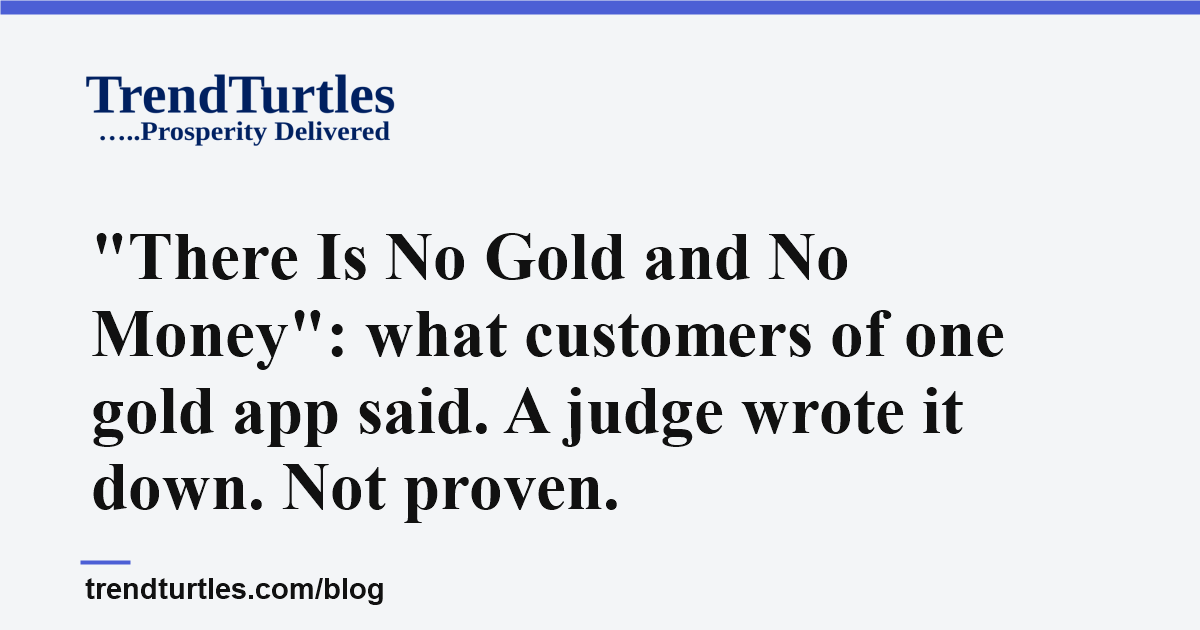
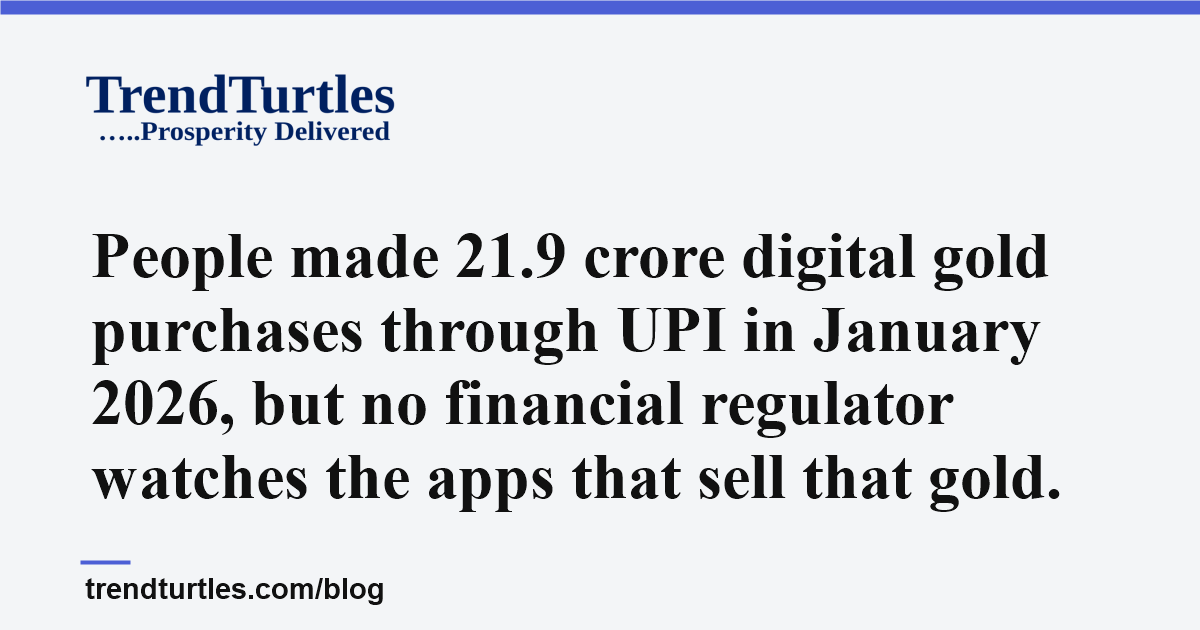
Rewrite digital gold post as series C episode (21.9 crore UPI purchases, no regulator); Paytm restart, government draft rules; links, card, share image

Changed region(s): [[0.0617, 0.4825, 0.8942, 0.8444], [0.0617, 0.3619, 0.8942, 0.4825]]

diff --git a/blog/digital-gold-safe-india.html b/blog/digital-gold-safe-india.html
@@ -3,22 +3,22 @@
 <head>
     <meta charset="UTF-8">
     <meta name="viewport" content="width=device-width, initial-scale=1.0">
-    <title>"No Gold and No Money": Is Digital Gold Safe in India?</title>
-    <meta name="description" content="Customers of one gold app said &quot;there is no gold and no money&quot;, a High Court order shows. It is not proven. Is digital gold safe in India? 7 checks to do.">
+    <title>Is Digital Gold Safe in India? No Regulator, Real Cases</title>
+    <meta name="description" content="Is digital gold safe? People made 21.9 crore UPI purchases in January 2026, but no regulator watches the apps. Real cases, costs and 7 steps before you buy.">
     <meta name="author" content="Mayank Gola">
     <meta name="robots" content="index, follow, max-snippet:-1, max-image-preview:large, max-video-preview:-1">
-    <meta property="og:title" content="&quot;No Gold and No Money&quot;: Is Digital Gold Safe in India?">
-    <meta property="og:description" content="Customers of one gold app said &quot;there is no gold and no money&quot;, a High Court order shows. It is not proven. Is digital gold safe in India? 7 checks to do.">
+    <meta property="og:title" content="Is Digital Gold Safe in India? No Regulator, Real Cases">
+    <meta property="og:description" content="Is digital gold safe? People made 21.9 crore UPI purchases in January 2026, but no regulator watches the apps. Real cases, costs and 7 steps before you buy.">
     <meta property="og:url" content="https://trendturtles.com/blog/digital-gold-safe-india.html">
     <meta property="og:type" content="article">
     <meta property="og:site_name" content="TrendTurtles">
-    <meta property="og:image" content="https://trendturtles.com/assets/images/digital-gold-safe-india-share.png?v=2">
+    <meta property="og:image" content="https://trendturtles.com/assets/images/digital-gold-safe-india-share.png?v=4">
     <meta property="og:image:width" content="1200">
     <meta property="og:image:height" content="630">
     <meta name="twitter:card" content="summary_large_image">
-    <meta name="twitter:title" content="&quot;No Gold and No Money&quot;: Is Digital Gold Safe in India?">
-    <meta name="twitter:description" content="Customers of one gold app said &quot;there is no gold and no money&quot;, a High Court order shows. It is not proven. Is digital gold safe in India? 7 checks to do.">
-    <meta name="twitter:image" content="https://trendturtles.com/assets/images/digital-gold-safe-india-share.png?v=2">
+    <meta name="twitter:title" content="Is Digital Gold Safe in India? No Regulator, Real Cases">
+    <meta name="twitter:description" content="Is digital gold safe? People made 21.9 crore UPI purchases in January 2026, but no regulator watches the apps. Real cases, costs and 7 steps before you buy.">
+    <meta name="twitter:image" content="https://trendturtles.com/assets/images/digital-gold-safe-india-share.png?v=4">
     <link rel="canonical" href="https://trendturtles.com/blog/digital-gold-safe-india.html">
     <link rel="icon" href="/favicon.ico" sizes="any">
     <link rel="icon" href="/favicon-512.png" type="image/png">
@@ -29,13 +29,13 @@
     {
         "@context": "https://schema.org",
         "@type": "BlogPosting",
-        "headline": "\"There Is No Gold and No Money\"",
-        "description": "Customers of one gold app said \"there is no gold and no money\", a High Court order shows. It is not proven. Is digital gold safe in India? 7 checks to do.",
+        "headline": "Is Digital Gold Safe in India? No Regulator, Real Cases",
+        "description": "Is digital gold safe? People made 21.9 crore UPI purchases in January 2026, but no regulator watches the apps. Real cases, costs and 7 steps before you buy.",
         "mainEntityOfPage": "https://trendturtles.com/blog/digital-gold-safe-india.html",
         "datePublished": "2026-10-11",
-        "dateModified": "2026-10-25",
+        "dateModified": "2026-10-27",
         "inLanguage": "en-IN",
-        "image": "https://trendturtles.com/assets/images/digital-gold-safe-india-share.png?v=2",
+        "image": "https://trendturtles.com/assets/images/digital-gold-safe-india-share.png?v=4",
         "author": {
             "@type": "Person",
             "name": "Mayank Gola",
@@ -90,74 +90,62 @@
         <a href="index.html">Blog</a> &rsaquo;
         <span class="current">Is Digital Gold Safe in India?</span>
     </p>
-    <h1>"There Is No Gold and No Money"</h1>
-    <p class="dek">Customers of one gold app were saying this to each other. A judge wrote it in his order in 2026. It is not proven.</p>
-    <p class="dek-source">Karnataka High Court order, March 2026, in the Jar Gold case. Source: <a href="https://www.livelaw.in/high-court/karnataka-high-court/karnataka-high-court-digital-gold-platform-jar-gold-retail-private-limited-526393" target="_blank" rel="noopener noreferrer">LiveLaw</a>, a legal news site.</p>
+    <h1>People made 21.9 crore digital gold purchases through UPI in January 2026, but no financial regulator watches the apps that sell that gold.</h1>
+    <p class="dek">SEBI, which watches the share market, says digital gold is not its job. The RBI watches only the payment, not the gold. The government plans rules by 2027.</p>
+    <p class="dek-source">NPCI data for January 2026. Source: <a href="https://www.angelone.in/news/commodities/digital-gold-sales-reach-record-3-926-crore-in-january-2026" target="_blank" rel="noopener noreferrer">Angel One</a>, a stockbroker's news page. SEBI caution to the public, 8 November 2025. Source: <a href="https://www.sebi.gov.in/media-and-notifications/press-releases/nov-2025/caution-to-public-regarding-dealing-in-digital-gold-_97676.html" target="_blank" rel="noopener noreferrer">SEBI</a>.</p>
 </section>
 
 <section class="section">
 
     <p class="byline">
-        By <strong>Mayank Gola</strong>, TrendTurtles &nbsp;·&nbsp; 10 min read &nbsp;·&nbsp; Published: October 2026
+        By <strong>Mayank Gola</strong>, TrendTurtles &nbsp;·&nbsp; 10 min read &nbsp;·&nbsp; Published: October 2026 &nbsp;·&nbsp; Updated: 27 October 2026
     </p>
 
+    <p>This article is part of our series on gold rules that are unclear or changed midway. See also <a href="sovereign-gold-bond-tax-india.html">the gold bond tax change</a> and <a href="gold-at-home-limit-india.html">the rule on gold at home</a>.</p>
 
-    <p>Jar is a phone app. You pay a small amount. The app says it buys gold for you and keeps it safe. This is called digital gold.</p>
-    <p>In 2026, the police in Bengaluru opened a case against Jar. Jar asked the Karnataka High Court to stop the case. In March 2026 the judge said no. He said the police must look into it, because <a href="https://www.livelaw.in/high-court/karnataka-high-court/karnataka-high-court-digital-gold-platform-jar-gold-retail-private-limited-526393" target="_blank" rel="noopener noreferrer">"the investors have already made hue and cry through communications between them that there is no gold and no money"</a>.</p>
-    <p>In simple words: Jar's customers were telling each other that the gold was not there, and the money was not there.</p>
-    <p>Is it true? Nobody knows yet. It is a claim. It is not proven. The judge added one thing. His words were only about Jar's request to stop the case. They cannot be used against Jar at its trial. No court has found Jar guilty. The police are still looking into it. This is how things stood in August 2026.</p>
-    <p>Jar says the claim is wrong. It told the court it buys real gold every time. The gold is kept by a company called Brink's India, in a vault. A vault is a strong locked room.</p>
-    <p>In April 2026 a smaller court looked at the case. It noted that <a href="https://inc42.com/buzz/karnataka-hc-quashes-sessions-court-orders-to-defreeze-jars-accounts/" target="_blank" rel="noopener noreferrer">the police had confirmed about 1,521 kg of gold kept with Brink's India</a>. It also noted that no customer had complained of not getting gold or money. The High Court, for its part, had noted that members of the public had made several complaints against the company.</p>
-    <p>So why should you care? Because nobody is watching the app. This is part of our series on gold rules that are unclear or changed midway. See also <a href="sovereign-gold-bond-tax-india.html">the gold bond tax change</a> and <a href="gold-at-home-limit-india.html">the rule on gold at home</a>.</p>
+    <p>Digital gold is gold you buy in a phone app. You pay a small amount, <a href="https://www.angelone.in/news/commodities/digital-gold-sales-reach-record-3-926-crore-in-january-2026" target="_blank" rel="noopener noreferrer">from as little as ₹1</a>. The app says it buys real gold for you and keeps it in a vault. You never see the gold. You trust the app.</p>
+    <p>Many people now save this way. In January 2026, people made <a href="https://www.angelone.in/news/commodities/digital-gold-sales-reach-record-3-926-crore-in-january-2026" target="_blank" rel="noopener noreferrer">21.9 crore digital gold purchases through UPI, worth ₹3,926 crore</a>, according to NPCI data. NPCI runs UPI. In September 2026, digital gold purchases were ₹2,590 crore, <a href="https://www.businesstoday.in/personal-finance/story/digital-gold-purchases-jump-83-is-convenience-changing-how-indians-buy-gold-563517-2026-10-25" target="_blank" rel="noopener noreferrer">83% more than a year earlier</a>, the World Gold Council said. The two figures are measured in different ways, so they cannot be compared with each other.</p>
 
-    <h2>Is Digital Gold Safe in India? SEBI Does Not Watch It</h2>
-    <p>You can start digital gold with <a href="https://www.moneylife.in/article/sebi-warns-against-investing-in-unregulated-digital-gold-and-egold-products/78789.html" target="_blank" rel="noopener noreferrer">as little as ₹10 or ₹100</a>. You never see the gold. You trust the app.</p>
-    <p>SEBI is the government body that watches the share market. On 8 November 2025 it gave the public <a href="https://www.sebi.gov.in/media-and-notifications/press-releases/nov-2025/caution-to-public-regarding-dealing-in-digital-gold-_97676.html" target="_blank" rel="noopener noreferrer">a warning about digital gold</a>. It said these products:</p>
-    <p class="pull-quote">"operate entirely outside the purview of SEBI."</p>
-    <p>In simple words: digital gold is not SEBI's job. If something goes wrong, SEBI's protection does not cover you.</p>
-    <p>The RBI is the body that watches banks. <a href="https://www.livelaw.in/high-court/karnataka-high-court/karnataka-high-court-digital-gold-platform-jar-gold-retail-private-limited-526393" target="_blank" rel="noopener noreferrer">The same court report</a> says an RBI team inspected Jar's address in Bengaluru. The RBI said Jar's gold account does not come under its rules.</p>
-    <p>The magazine Moneylife <a href="https://www.moneylife.in/article/sebi-warns-against-investing-in-unregulated-digital-gold-and-egold-products/78789.html" target="_blank" rel="noopener noreferrer">put it plainly</a>. Digital gold is not under SEBI, not under the RBI, and not under any other financial regulator. So your safety depends only on the company behind the app.</p>
-    <p>Nithin Kamath heads Zerodha, a firm through which people buy shares. <a href="https://www.businesstoday.in/personal-finance/investment/story/a-subpar-way-to-get-exposure-to-gold-nithin-kamath-warns-digital-buyers-face-6-loss-no-safety-501997-2025-11-13" target="_blank" rel="noopener noreferrer">He wrote</a>: "Most people don't realize that nobody regulates digital gold." If something goes wrong, he said, "there's not much you can do." Keep one thing in mind. There is a <a href="https://www.basunivesh.com/gold-and-silver-etf-nav-trap-why-you-just-lost-24-in-1-day/" target="_blank" rel="noopener noreferrer">Zerodha Gold ETF</a>, which is a gold fund. So he has a reason to like such funds more.</p>
-    <p>The police can still act. <a href="https://inc42.com/buzz/karnataka-hc-quashes-sessions-court-orders-to-defreeze-jars-accounts/" target="_blank" rel="noopener noreferrer">The High Court said</a> criminal law applies to digital gold too. But the police come after something goes wrong. Nobody checks before.</p>
+    <h2 id="what-is-written">Is Digital Gold Safe in India? What the Rules Say</h2>
+    <p>SEBI is the government body that watches the share market. On 8 November 2025 it gave the public <a href="https://www.sebi.gov.in/media-and-notifications/press-releases/nov-2025/caution-to-public-regarding-dealing-in-digital-gold-_97676.html" target="_blank" rel="noopener noreferrer">a warning about digital gold</a>. It said these products "operate entirely outside the purview of SEBI". In simple words: digital gold is not SEBI's job, and SEBI's protection does not cover you.</p>
+    <p>The RBI is the body that watches banks. In August 2026, the news agency KNN reported that the RBI <a href="https://knnindia.co.in/news/newsdetails/sectors/government-plans-digital-gold-rules-to-boost-transparency-investor-protection" target="_blank" rel="noopener noreferrer">watches only the payment system</a> you use to buy. It does not watch the gold itself. The magazine Moneylife <a href="https://www.moneylife.in/article/sebi-warns-against-investing-in-unregulated-digital-gold-and-egold-products/78789.html" target="_blank" rel="noopener noreferrer">put it plainly</a>: digital gold is not under SEBI, not under the RBI, and not under any other financial regulator.</p>
 
-    <h2>What Happened to Digital Gold Buyers</h2>
-    <p>Here are four real cases. We did not make up any of them. Each has a link, so you can read it yourself.</p>
+    <h2 id="what-is-not">What Nobody Checks</h2>
+    <p>Because no regulator watches digital gold, no government body checks that the gold is really in the vault. Regulators <a href="https://www.business-standard.com/markets/commodities/digital-gold-fintechs-face-scrutiny-amid-sebi-warning-125111101962_1.html" target="_blank" rel="noopener noreferrer">could not inspect the platforms' vaults</a>, Business Standard reported. Your safety depends only on the company behind the app.</p>
+    <p>Nithin Kamath heads Zerodha, a firm through which people buy shares and gold ETFs. A gold ETF is a gold fund sold on the share market. <a href="https://www.businesstoday.in/personal-finance/investment/story/a-subpar-way-to-get-exposure-to-gold-nithin-kamath-warns-digital-buyers-face-6-loss-no-safety-501997-2025-11-13" target="_blank" rel="noopener noreferrer">He wrote</a>: "Most people don't realize that nobody regulates digital gold." If something goes wrong, he said, "there's not much you can do." Keep one thing in mind: Zerodha also runs <a href="https://www.basunivesh.com/gold-and-silver-etf-nav-trap-why-you-just-lost-24-in-1-day/" target="_blank" rel="noopener noreferrer">a gold ETF of its own</a>.</p>
+    <p>The police can still act. <a href="https://inc42.com/buzz/karnataka-hc-quashes-sessions-court-orders-to-defreeze-jars-accounts/" target="_blank" rel="noopener noreferrer">The Karnataka High Court said</a> criminal law applies to digital gold too. But the police come after something goes wrong. Nobody checks before.</p>
 
-    <h3>1. Jar: the app's bank accounts were frozen (2026)</h3>
-    <p>The police froze Jar's bank accounts while they looked into the case. Frozen means no money can go out. In July 2026 they froze more accounts.</p>
-    <p><a href="https://www.livelaw.in/high-court/karnataka-high-court/karnataka-high-court-hears-gold-plea-total-account-freeze-customers-gold-redemption-542668" target="_blank" rel="noopener noreferrer">Jar's lawyer told the High Court this.</a> With the accounts frozen, Jar could not pay customers who asked for their money. It could not take new orders either. This is what the lawyer said. We did not find a report of any customer who was not paid.</p>
-    <p>In August 2026 the High Court ruled on this. <a href="https://www.livelaw.in/high-court/karnataka-high-court/karnataka-high-court-settles-jar-gold-legal-battle-police-freeze-bank-account-545095" target="_blank" rel="noopener noreferrer">The police may freeze bank accounts during a case.</a></p>
+    <h2 id="what-may-change">What May Change</h2>
+    <p>After SEBI's warning, many buyers took their money out. Withdrawals from digital gold apps <a href="https://www.business-standard.com/markets/commodities/digital-gold-fintechs-face-scrutiny-amid-sebi-warning-125111101962_1.html" target="_blank" rel="noopener noreferrer">nearly tripled</a>, Business Standard reported in November 2025, citing industry sources.</p>
+    <p>The government is now preparing rules. In August 2026, KNN reported that it plans <a href="https://knnindia.co.in/news/newsdetails/sectors/government-plans-digital-gold-rules-to-boost-transparency-investor-protection" target="_blank" rel="noopener noreferrer">a formal framework for digital gold by next year, which means 2027</a>. The plan is that every unit sold must be backed by real gold in insured vaults, checked by regular independent audits. This is a plan, not a law. Until it becomes law, nobody watches.</p>
 
-    <h3>2. Plus Gold: the company stopped work (2025)</h3>
-    <p>Plus Gold is a digital gold app. It was shown on the TV show Shark Tank India. <a href="https://inc42.com/buzz/exclusive-shark-tank-fame-plus-gold-shuts-shop/" target="_blank" rel="noopener noreferrer">The news site Inc42 reported on 31 July 2025</a> that the company had stopped work. It could not raise money to keep going. The app had over 1 lakh downloads on Google Play.</p>
-    <p>Inc42 said some users complained. They said they could not take their money out. One user wrote on Reddit that they tried more than once. It did not work.</p>
-    <p>The company's founder said no money was stuck. He said users could still take money out or sell. He said another gold company had taken over the app.</p>
+    <h2 id="cases">What Happened to Digital Gold Buyers</h2>
+    <p>Here are three real cases, each with a link.</p>
 
-    <h3>3. Paytm: no gold delivery for months (2025 to 2026)</h3>
-    <p>Some buyers want the real gold one day, as a coin or a bar. <a href="https://www.storyboard18.com/brand-marketing/paytm-to-restart-physical-gold-deliveries-for-digital-investors-in-april-ws-l-92065.htm" target="_blank" rel="noopener noreferrer">Paytm paused gold delivery in August 2025</a>. Several Paytm gold buyers told the news site Moneycontrol this. Paytm gave no reason in public. The app only said "coming soon".</p>
-    <p>In March 2026 Paytm said it was rebuilding the way it sends gold to buyers. It planned to start again in mid-April. It said buyers could still sell their digital gold for cash in this time.</p>
+    <h3 id="jar-frozen">1. Jar: the app's bank accounts were frozen (2026)</h3>
+    <p>Jar is a digital gold app. In 2026, the police in Bengaluru opened a case against it. In March 2026, the Karnataka High Court refused to stop the police case. The judge noted that investors had been saying to each other <a href="https://www.livelaw.in/high-court/karnataka-high-court/karnataka-high-court-digital-gold-platform-jar-gold-retail-private-limited-526393" target="_blank" rel="noopener noreferrer">"there is no gold and no money"</a>. In simple words: some investors feared the app had neither the gold nor their money. This is a claim, not proven. No court has found Jar guilty, and Jar says the claim is wrong. The High Court also noted several complaints from the public online.</p>
+    <p>Jar told the court that it buys real gold every time, and that the gold is kept in a vault by a company called Brink's India. In April 2026, a lower court in Bengaluru noted that the police had confirmed <a href="https://inc42.com/buzz/karnataka-hc-quashes-sessions-court-orders-to-defreeze-jars-accounts/" target="_blank" rel="noopener noreferrer">about 1,521 kg of gold kept with Brink's India</a>. But it also noted that, in the case itself, no customer had complained of not getting gold or money.</p>
+    <p>The police froze Jar's bank accounts while they looked into the case. Frozen means no money can go out. Jar's lawyer told the High Court that, with the accounts frozen, <a href="https://www.livelaw.in/high-court/karnataka-high-court/karnataka-high-court-hears-gold-plea-total-account-freeze-customers-gold-redemption-542668" target="_blank" rel="noopener noreferrer">Jar could not pay customers</a> who asked for their money. In August 2026 the High Court ruled that <a href="https://www.livelaw.in/high-court/karnataka-high-court/karnataka-high-court-settles-jar-gold-legal-battle-police-freeze-bank-account-545095" target="_blank" rel="noopener noreferrer">the police may freeze bank accounts</a> during a case. So the freeze can stay while the case goes on, except for some essential payments.</p>
 
-    <h3>4. Mangaluru: a man says a fake app took ₹10.55 lakh (2025 to 2026)</h3>
-    <p>A 57-year-old man in Mangaluru told the police this. In November 2025 he got a friendly message on Instagram. The sender told him to put money in the "digital gold market" through an app called Kanak Daam Exchange. He sent money three times.</p>
-    <p>The app showed that his money had grown to ₹60 lakh. He tried to take it out. He was told to pay 30% as "tax" first. Officials at Canara Bank told him it was a fraud. Then the app showed zero. <a href="https://www.deccanherald.com/india/karnataka/mangaluru/mangaluru-man-duped-of-rs-1055-lakh-in-digital-gold-investment-scam-3918353" target="_blank" rel="noopener noreferrer">He says he lost ₹10.55 lakh. The police have registered a case.</a></p>
-    <p>By his account, this was not a gold company. It only used the name "digital gold".</p>
+    <h3 id="plus-gold">2. Plus Gold: the company stopped work (2025)</h3>
+    <p>Plus Gold is a digital gold app that was shown on the TV show Shark Tank India. The news site Inc42 reported on 31 July 2025 that <a href="https://inc42.com/buzz/exclusive-shark-tank-fame-plus-gold-shuts-shop/" target="_blank" rel="noopener noreferrer">the company had stopped work</a>, because it could not raise money to keep going. Some users complained that they could not take their money out. The founder said no money was stuck, and that another gold company had taken over the app.</p>
 
-    <h2>The Impact: You Can Lose 5 to 6% on Day One</h2>
-    <p>Digital gold costs you money even when nothing goes wrong. <a href="https://www.businesstoday.in/personal-finance/investment/story/a-subpar-way-to-get-exposure-to-gold-nithin-kamath-warns-digital-buyers-face-6-loss-no-safety-501997-2025-11-13" target="_blank" rel="noopener noreferrer">Business Today lists two costs</a>.</p>
-    <ul>
-        <li><strong>GST of 3%.</strong> This is the tax on buying gold. You pay it the moment you buy.</li>
-        <li><strong>The spread, about 2 to 3% more.</strong> The app sells gold to you at one price. It buys it back at a lower price. The gap is called the spread. This number is an estimate. It changes from app to app.</li>
-    </ul>
-    <p>Kamath said it in rupees: "You're instantly looking at a ₹500–₹600 loss on a ₹10,000 investment."</p>
-    <p>Now think of the four cases. You save a little every day. One day you need the money. The company may have stopped work. Its bank accounts may be frozen. The delivery button may say "coming soon". The cost is the small problem. Not being sure you can get your own money is the big one.</p>
+    <h3 id="paytm-delivery">3. Paytm: no gold delivery for about eight months (2025 to 2026)</h3>
+    <p>Some buyers want the real gold one day, as a coin. Several Paytm gold buyers told the news site Moneycontrol that <a href="https://www.storyboard18.com/brand-marketing/paytm-to-restart-physical-gold-deliveries-for-digital-investors-in-april-ws-l-92065.htm" target="_blank" rel="noopener noreferrer">Paytm paused gold delivery in August 2025</a>. The app only said "coming soon". Paytm said it was rebuilding the way it sends gold to buyers. In April 2026, Paytm announced <a href="https://news.webindia123.com/news/Articles/Business/20260417/4440413.html" target="_blank" rel="noopener noreferrer">delivery across more than 12,000 pin codes</a>. Paytm said buyers could still sell their digital gold for cash during the pause.</p>
 
-    <h2>Digital Gold vs Gold ETF vs Bank Gold Coin</h2>
-    <p>These are three ways to buy gold without buying jewellery. A gold ETF is a fund that holds gold. You buy a small part of it, called a unit, on the share market. For that you need a demat account. It holds your shares and funds.</p>
+    <p class="pull-quote">21.9 crore digital gold purchases in one month. No financial regulator watching the apps.</p>
+
+    <h2 id="impact">What It Costs You</h2>
+    <p><strong>You lose 5 to 6% on day one.</strong> Digital gold costs money even when nothing goes wrong. <a href="https://www.businesstoday.in/personal-finance/investment/story/a-subpar-way-to-get-exposure-to-gold-nithin-kamath-warns-digital-buyers-face-6-loss-no-safety-501997-2025-11-13" target="_blank" rel="noopener noreferrer">Business Today lists two costs</a>. The first is GST of 3%, the tax on buying gold, which you pay the moment you buy. The second is the spread, about 2 to 3%. The app sells gold to you at one price and buys it back at a lower price; that gap is the spread. Kamath put it in rupees: "You're instantly looking at a ₹500–₹600 loss on a ₹10,000 investment."</p>
+    <p><strong>You may not get your money when you need it.</strong> You save a little every day, and one day you need the money. The company may have stopped work, as Plus Gold did. Its bank accounts may be frozen, as Jar's were. Even when you can sell, you may wait months for the gold coin you wanted, as Paytm buyers did. The cost is the small problem. Not being sure you can get your own money is the big one.</p>
+
+    <h2 id="compare">Digital Gold vs Gold ETF vs Bank Gold Coin</h2>
+    <p>These are three ways to buy gold without buying jewellery. A gold ETF is a fund that holds gold. You buy a small part of it, called a unit, on the share market. For that you need a demat account, which holds your shares and funds.</p>
     <div style="overflow-x: auto;">
     <table class="text-table">
         <tr><td></td><td><strong>Digital gold</strong></td><td><strong>Gold ETF</strong></td><td><strong>Bank gold coin</strong></td></tr>
         <tr><td><strong>Who watches it</strong></td><td>Not SEBI. Not the RBI.</td><td>SEBI</td><td>The RBI watches the bank</td></tr>
-        <tr><td><strong>Cost when you buy</strong></td><td>3% GST, and a spread of about 2 to 3%</td><td>A small fee. Some days the price is too high.</td><td>The bank charges more than the day's gold rate</td></tr>
+        <tr><td><strong>Cost when you buy</strong></td><td>3% GST, and a spread of about 2 to 3%</td><td>A small fee, and on some days the price is too high</td><td>The bank charges more than the day's gold rate</td></tr>
         <tr><td><strong>Cost every year</strong></td><td>Storage and app fees. They often show up as a gap between the buy and sell price.</td><td>0.59% to 0.69% at three big funds in mid-2026</td><td>None. But you must keep it safe.</td></tr>
         <tr><td><strong>How you sell</strong></td><td>Back to the app, at the app's price</td><td>On the share market</td><td>The bank will not buy it back</td></tr>
         <tr><td><strong>What went wrong</strong></td><td>Frozen accounts, a company that stopped work, no delivery</td><td>Buyers paid too much in January 2026</td><td>We found no reported case</td></tr>
@@ -169,15 +157,15 @@
     <p>The yearly fee of an ETF is small. The website GoldenPi <a href="https://goldenpi.com/blog/bond-news/gold-etf-expense-ratio-sbi-vs-nippon-vs-hdfc/" target="_blank" rel="noopener noreferrer">reported fees of 0.59% to 0.69% a year</a> at three big funds in mid-2026. That is about ₹59 to ₹69 a year on ₹10,000.</p>
     <p><strong>The bank coin trap.</strong> The website Goodreturns <a href="https://www.goodreturns.in/news/dhanteras-2024-diwali-season-fuels-gold-rush-should-you-buy-gold-coins-from-banks-other-options-1385207.html" target="_blank" rel="noopener noreferrer">reported in October 2024</a> that RBI rules do not let a bank buy back a gold coin. This is true even for a coin the same bank sold. You pay extra to buy it. Later you sell it to a jeweller, often for less.</p>
 
-    <h2>What To Do Before You Buy Digital Gold</h2>
-    <p>Seven steps. Each takes a few minutes.</p>
+    <h2 id="what-to-do">What To Do While the Rules Are Unclear</h2>
+    <p>There are seven steps, and each takes a few minutes.</p>
     <ol>
-        <li><strong>Ask who keeps the gold.</strong> Open the rules page of the app. Look for the name of the vault company. If you cannot find it, do not pay.</li>
+        <li><strong>Ask who keeps the gold.</strong> Open the terms and conditions page of the app. Look for the name of the vault company. If you cannot find it, do not pay.</li>
         <li><strong>See both prices on the same day.</strong> Look at the app's buy price and its sell price. The gap, plus 3% GST, is your loss on day one.</li>
         <li><strong>Sell a little first.</strong> Before you save for months, sell ₹100 of gold. See if the money comes to your bank.</li>
-        <li><strong>Never pay to take your money out.</strong> If an app asks for a "tax" or a fee first, stop. Ask a bank, as the man in Mangaluru did.</li>
+        <li><strong>Never pay to take your money out.</strong> Fake apps also use the name "digital gold". If an app asks for a "tax" or a fee before you can take money out, stop. In a 2026 police case, <a href="https://www.deccanherald.com/india/karnataka/mangaluru/mangaluru-man-duped-of-rs-1055-lakh-in-digital-gold-investment-scam-3918353" target="_blank" rel="noopener noreferrer">a man in Mangaluru says he lost ₹10.55 lakh</a>; bank officials told him it was a fraud.</li>
         <li><strong>Want SEBI to be watching? Pick what it watches.</strong> <a href="https://www.sebi.gov.in/media-and-notifications/press-releases/nov-2025/caution-to-public-regarding-dealing-in-digital-gold-_97676.html" target="_blank" rel="noopener noreferrer">SEBI's warning</a> names gold ETFs. It also names electronic gold receipts. These are electronic records that stand for real gold. They are bought and sold on the stock exchange.</li>
-        <li><strong>Buying an ETF? Check what it is really worth.</strong> The fund company's website shows a number called iNAV. It is what one unit of the fund is worth right now. If the market price is much higher, wait. <a href="https://www.basunivesh.com/gold-and-silver-etf-nav-trap-why-you-just-lost-24-in-1-day/" target="_blank" rel="noopener noreferrer">BasuNivesh says</a> to use a limit order. That means you fix the price you will pay.</li>
+        <li><strong>Buying an ETF? Check what it is really worth.</strong> The fund company's website shows a number called iNAV. It is what one unit of the fund is worth right now. If the market price is more than 1% above it, wait. <a href="https://www.basunivesh.com/gold-and-silver-etf-nav-trap-why-you-just-lost-24-in-1-day/" target="_blank" rel="noopener noreferrer">BasuNivesh says</a> to use a limit order. That means you fix the price you will pay.</li>
         <li><strong>Buying a coin from a bank? Ask one thing.</strong> "Will you buy it back?" Hear the answer before you pay.</li>
     </ol>
     <p>Who needs this most:</p>
@@ -190,12 +178,12 @@
     <div class="key-takeaways">
         <h2>Key Takeaways</h2>
         <ul>
-            <li>Customers of one gold app were saying "there is no gold and no money". A judge wrote this in his order. It is not proven, and the company says it is wrong.</li>
-            <li>SEBI said in November 2025 that digital gold is outside its work.</li>
-            <li>In real cases, one app's bank accounts were frozen, one company stopped work, and one app gave no gold delivery for months.</li>
+            <li>People made 21.9 crore digital gold purchases through UPI in January 2026, worth ₹3,926 crore.</li>
+            <li>SEBI says digital gold is not its job, and the RBI watches only the payment. No regulator checks that the app holds your gold.</li>
+            <li>The government plans rules by 2027, with real gold behind every unit and regular audits. Until then, nobody watches.</li>
+            <li>In real cases, one app's bank accounts were frozen, one company stopped work, and one app paused gold delivery for about eight months.</li>
             <li>By one estimate, a digital gold buyer loses about 5 to 6% on day one: 3% GST and a spread of about 2 to 3%.</li>
-            <li>SEBI watches gold ETFs. Still, check the iNAV before you buy.</li>
-            <li>Before you buy a gold coin from a bank, ask if the bank will buy it back.</li>
+            <li>Sell a little first, never pay a fee to take money out, and if you want SEBI watching, pick a gold ETF.</li>
         </ul>
     </div>
 

diff --git a/blog/index.html b/blog/index.html
@@ -81,6 +81,13 @@
     <h2>Latest Articles</h2>
     <div class="blog-list">
 
+        <a class="blog-card" href="digital-gold-safe-india.html">
+            <div class="blog-content">
+                <h3>People made 21.9 crore digital gold purchases through UPI in January 2026, but no financial regulator watches the apps that sell that gold.</h3>
+                <p>SEBI, which watches the share market, says digital gold is not its job. The RBI watches only the payment, not the gold. The government plans rules by 2027.</p>
+            </div>
+        </a>
+
 
         <a class="blog-card" href="gold-making-charges-india-real-cost.html">
             <div class="blog-content">
@@ -108,13 +115,6 @@
             <div class="blog-content">
                 <h3>Sovereign Gold Bonds: "Secondary-Market Buyers Now Face 12.5% LTCG at Maturity"</h3>
                 <p>If you bought your gold bond on the stock exchange, you now pay 12.5% tax on your gain when it matures. This started on 1 April 2026.</p>
-            </div>
-        </a>
-
-        <a class="blog-card" href="digital-gold-safe-india.html">
-            <div class="blog-content">
-                <h3>"There Is No Gold and No Money"</h3>
-                <p>Customers of one gold app were saying this to each other. A judge wrote it in his order in 2026. It is not proven.</p>
             </div>
         </a>
 

diff --git a/blog/gold-at-home-limit-india.html b/blog/gold-at-home-limit-india.html
@@ -33,7 +33,7 @@
         "description": "No law limits gold at home. A 1994 tax order, a 2016 statement and tribunals differ. Unexplained gold can cost about ₹99 of ₹100. How to stay safe.",
         "mainEntityOfPage": "https://trendturtles.com/blog/gold-at-home-limit-india.html",
         "datePublished": "2026-10-18",
-        "dateModified": "2026-10-25",
+        "dateModified": "2026-10-27",
         "inLanguage": "en-IN",
         "image": "https://trendturtles.com/assets/images/gold-at-home-limit-india-share.png?v=2",
         "author": {
@@ -199,7 +199,7 @@
         <ul>
             <li><a href="gold-hallmark-check-india.html">Fake Gold Hallmark: An 18-Carat Chain Had Only About 10% Gold</a></li>
             <li><a href="sovereign-gold-bond-tax-india.html">Sovereign Gold Bonds: "Secondary-Market Buyers Now Face 12.5% LTCG at Maturity"</a></li>
-            <li><a href="digital-gold-safe-india.html">"There Is No Gold and No Money": Is Digital Gold Safe in India?</a></li>
+            <li><a href="digital-gold-safe-india.html">Is Digital Gold Safe in India? No Regulator, Real Cases</a></li>
             <li><a href="gold-making-charges-india-real-cost.html">Gold Making Charges and Wastage: How Jewellers Overcharge</a></li>
         </ul>
     </div>

diff --git a/blog/gold-making-charges-india-real-cost.html b/blog/gold-making-charges-india-real-cost.html
@@ -33,7 +33,7 @@
         "description": "Hyderabad raids found some shops billing about 25% extra as wastage. Real gold making charges cases, the 3% GST rule, and 6 steps before you pay or sell.",
         "mainEntityOfPage": "https://trendturtles.com/blog/gold-making-charges-india-real-cost.html",
         "datePublished": "2026-10-06",
-        "dateModified": "2026-10-26",
+        "dateModified": "2026-10-27",
         "inLanguage": "en-IN",
         "image": "https://trendturtles.com/assets/images/gold-making-charges-share.png?v=3",
         "author": {
@@ -195,7 +195,7 @@
             <li><a href="gold-hallmark-check-india.html">Fake Gold Hallmark: An 18-Carat Chain Had Only About 10% Gold</a></li>
             <li><a href="gold-at-home-limit-india.html">Gold at Home Limit: The 500g Rule and Inherited Gold Tax</a></li>
             <li><a href="sovereign-gold-bond-tax-india.html">Sovereign Gold Bonds: "Secondary-Market Buyers Now Face 12.5% LTCG at Maturity"</a></li>
-            <li><a href="digital-gold-safe-india.html">"There Is No Gold and No Money": Is Digital Gold Safe in India?</a></li>
+            <li><a href="digital-gold-safe-india.html">Is Digital Gold Safe in India? No Regulator, Real Cases</a></li>
         </ul>
     </div>
 

diff --git a/blog/sovereign-gold-bond-tax-india.html b/blog/sovereign-gold-bond-tax-india.html
@@ -33,7 +33,7 @@
         "description": "From 1 April 2026, people who bought gold bonds on the stock exchange pay 12.5% tax at maturity. Those who bought at issue do not. See which one you are.",
         "mainEntityOfPage": "https://trendturtles.com/blog/sovereign-gold-bond-tax-india.html",
         "datePublished": "2026-10-15",
-        "dateModified": "2026-10-25",
+        "dateModified": "2026-10-27",
         "inLanguage": "en-IN",
         "image": "https://trendturtles.com/assets/images/sovereign-gold-bond-tax-india-share.png?v=2",
         "author": {
@@ -203,7 +203,7 @@
         <ul>
             <li><a href="gold-at-home-limit-india.html">Gold at Home Limit: The 500g Rule and Inherited Gold Tax</a></li>
             <li><a href="gold-hallmark-check-india.html">Fake Gold Hallmark: An 18-Carat Chain Had Only About 10% Gold</a></li>
-            <li><a href="digital-gold-safe-india.html">"There Is No Gold and No Money": Is Digital Gold Safe in India?</a></li>
+            <li><a href="digital-gold-safe-india.html">Is Digital Gold Safe in India? No Regulator, Real Cases</a></li>
             <li><a href="gold-making-charges-india-real-cost.html">Gold Making Charges and Wastage: How Jewellers Overcharge</a></li>
         </ul>
     </div>

diff --git a/blog/gold-hallmark-check-india.html b/blog/gold-hallmark-check-india.html
@@ -33,7 +33,7 @@
         "description": "A gold chain in Kanpur carried an 18-carat hallmark and had about 10% gold. Real fake hallmark cases, and the free BIS Care check that catches most of them.",
         "mainEntityOfPage": "https://trendturtles.com/blog/gold-hallmark-check-india.html",
         "datePublished": "2026-10-08",
-        "dateModified": "2026-10-25",
+        "dateModified": "2026-10-27",
         "inLanguage": "en-IN",
         "image": "https://trendturtles.com/assets/images/gold-hallmark-check-share.png?v=4",
         "author": {
@@ -215,7 +215,7 @@
             <li><a href="gold-making-charges-india-real-cost.html">Gold Making Charges and Wastage: How Jewellers Overcharge</a></li>
             <li><a href="gold-at-home-limit-india.html">Gold at Home Limit: The 500g Rule and Inherited Gold Tax</a></li>
             <li><a href="sovereign-gold-bond-tax-india.html">Sovereign Gold Bonds: "Secondary-Market Buyers Now Face 12.5% LTCG at Maturity"</a></li>
-            <li><a href="digital-gold-safe-india.html">"There Is No Gold and No Money": Is Digital Gold Safe in India?</a></li>
+            <li><a href="digital-gold-safe-india.html">Is Digital Gold Safe in India? No Regulator, Real Cases</a></li>
         </ul>
     </div>
 
